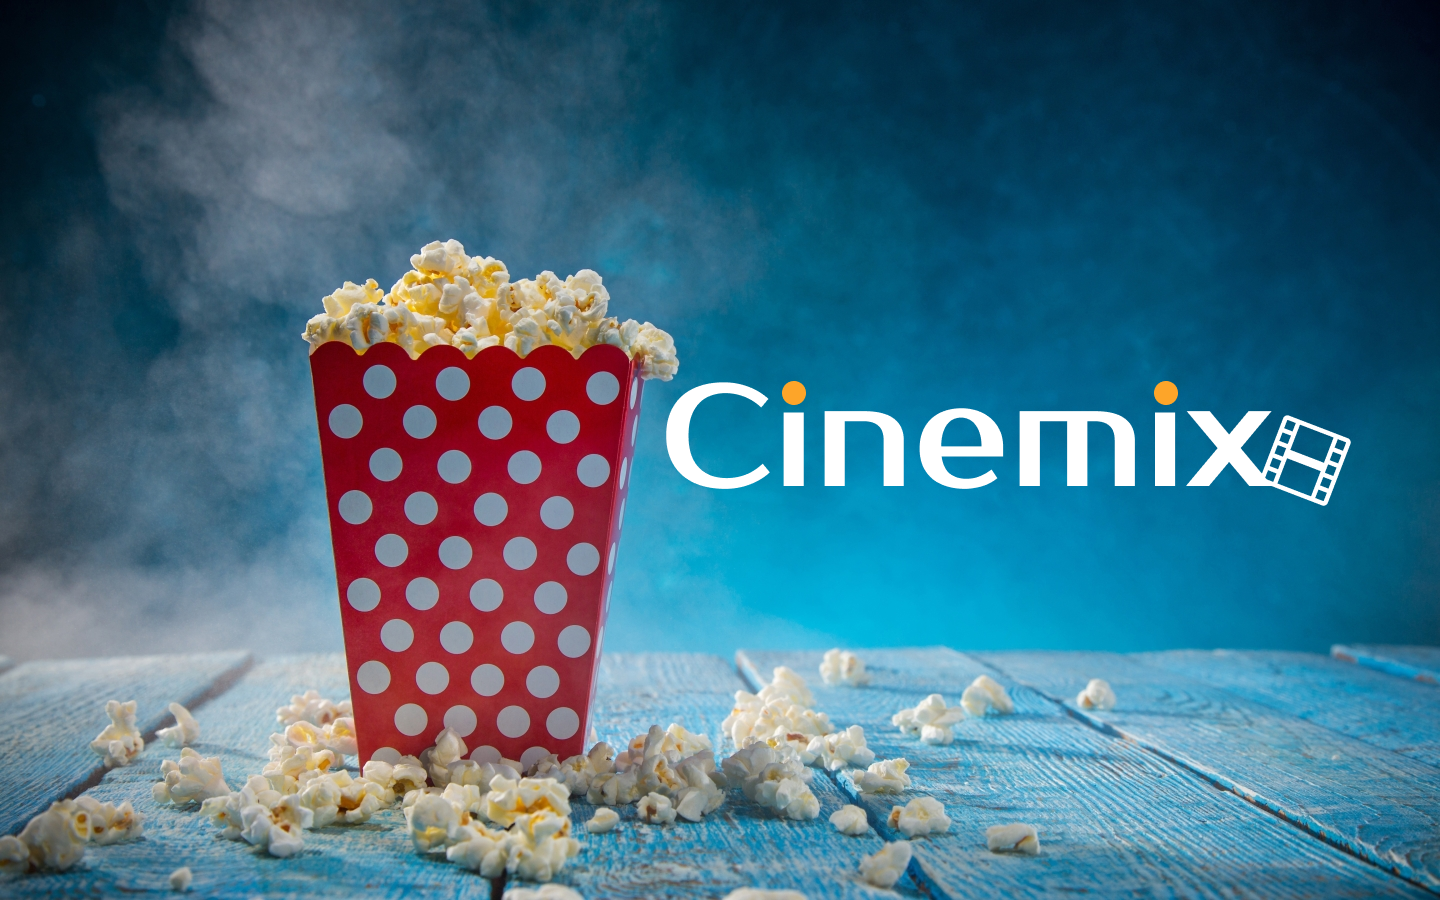
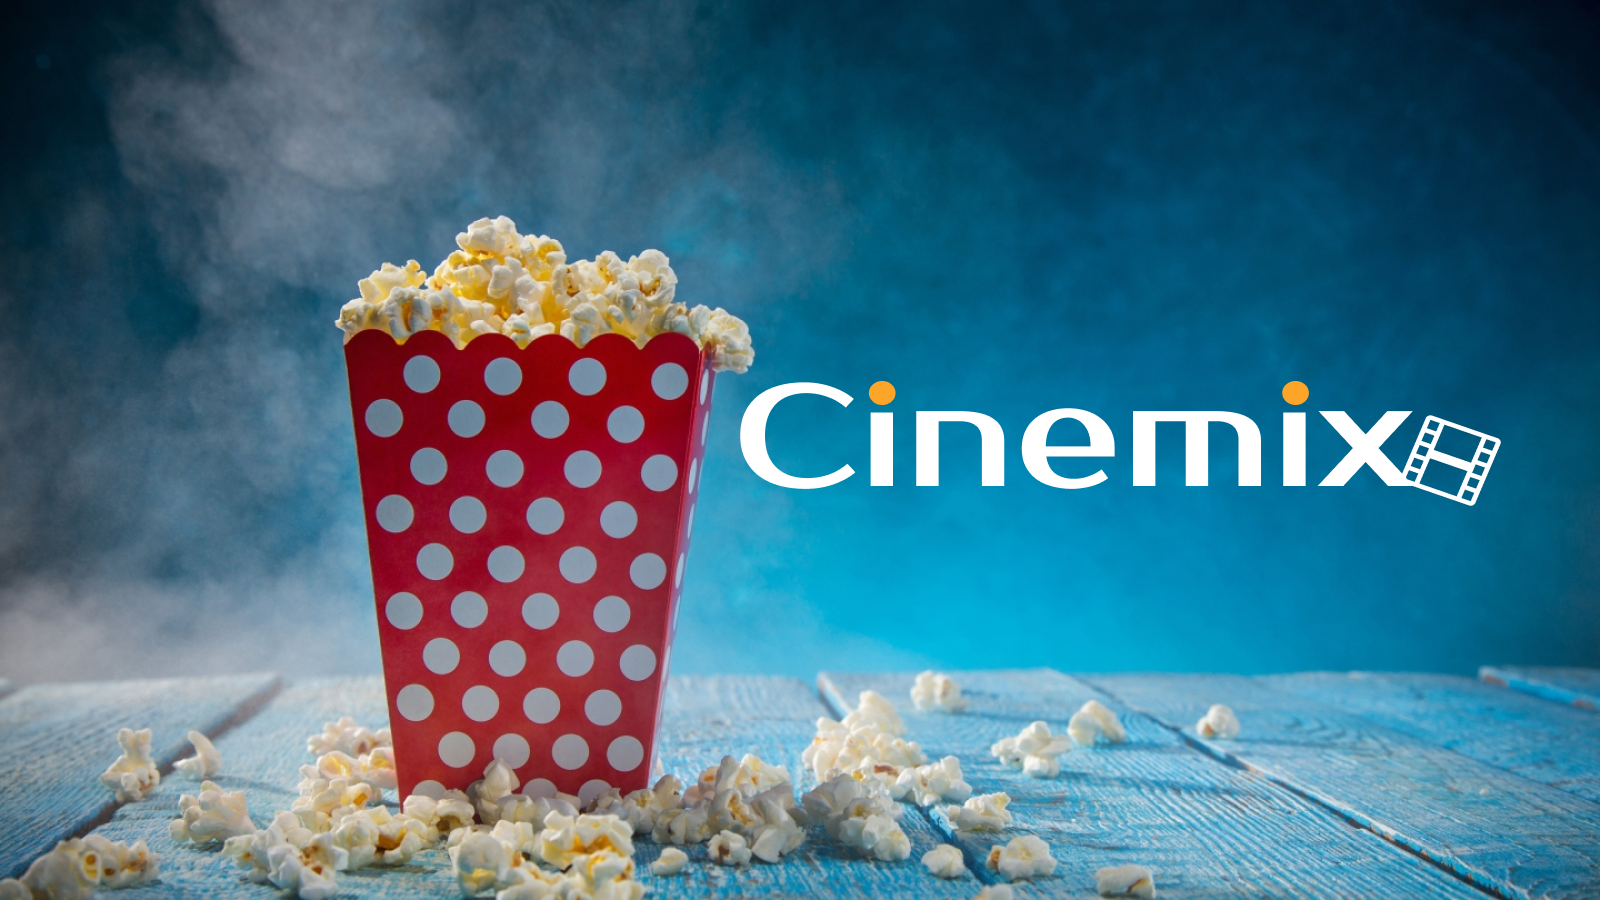
feat: new slide

diff --git a/index.html b/index.html
@@ -27,48 +27,13 @@
         </div>
 
         <!--Banner Slider-->
-        <div class="menu_slide_container">
-            <div class="menu_slide">
-                <div class="slides">
-                    <!--Radio buttons-->
-                    <input type="radio" name="radio-btn" id="radio1">
-                    <input type="radio" name="radio-btn" id="radio2">
-                    <input type="radio" name="radio-btn" id="radio3">
-                    <input type="radio" name="radio-btn" id="radio4">
-                    <!--Fim Radio buttons-->
-
-                    <!--Slide img-->
-                    <div class="slide_img first">
-                        <img src="./img/slide/img1.png" alt="imagem 1">
-                    </div>
-                    <div class="slide_img">
-                        <img src="./img/slide/img2.jpg" alt="imagem 2">
-                    </div>
-                    <div class="slide_img">
-                        <img src="./img/slide/img3.jpeg" alt="imagem 3">
-                    </div>
-
-                    <div class="slide_img">
-                        <img src="./img/slide/img4.jpeg" alt="imagem 4">
-                    </div>
-                    <!--Fim slide img-->
-
-                    <!--Navegation auto-->
-                    <div class="navigation_auto">
-                        <div class="auto_btn1"></div>
-                        <div class="auto_btn2"></div>
-                        <div class="auto_btn3"></div>
-                        <div class="auto_btn4"></div>
-                    </div>
-                </div>
-
-                <div class="manual_navigation">
-                    <label for="radio1" class="manual_btn"></label>
-                    <label for="radio2" class="manual_btn"></label>
-                    <label for="radio3" class="manual_btn"></label>
-                    <label for="radio4" class="manual_btn"></label>
-                </div>
-            </div>
+        <div class="slide_wrapper">
+            <ul class="slide">
+                <li><img src="./img/slide/img1.png" alt="Slide 1"></li>
+                <li><img src="./img/slide/img2.jpg" alt="Slide 2"></li>
+                <li><img src="./img/slide/img3.jpeg" alt="Slide 3"></li>
+                <li><img src="./img/slide/img4.jpeg" alt="Slide 4"></li>
+            </ul>
         </div>
     </header>
 

diff --git a/css/slide/slide.css b/css/slide/slide.css
@@ -1,111 +1,15 @@
-.menu_slide_container {
+.slide_wrapper {
     max-width: 1380px;
-
-    display: flex;
-    align-items: center;
-    justify-content: center;
-}
-
-.menu_slide {
-    margin: 0 auto;
-    width: 100%;
-    height: 90vh;
     overflow: hidden;
-}
-
-.slides {
-    width: 400%;
-    height: 600px;
     display: flex;
 }
 
-.slides input {
-    display: none;
-}
-
-.slide_img {
-    width: 25%;
-    position: relative;
-    transition: 2s;
-}
-
-.slide_img img {
-    width: 100%;
-    height: 100%;
-    object-fit: cover;
-}
-
-.manual_navigation {
-    position: absolute;
-    width: 100%;
-    margin-top: -120px;
+.slide {
     display: flex;
-    justify-content: center;
 }
 
-.manual_btn {
-    border: 2px solid #fff;
-    padding: 8px;
-    border-radius: 10px;
-    cursor: pointer;
-    transition: 0.5s;
-}
-
-.manual_btn:not(:last-child) {
-    margin-right: 18px;
-}
-
-.manual_btn:hover {
-    background-color: var(--hover);
-    border: 2px solid var(--f_color);
-}
-
-#radio1:checked ~ .first {
-    margin-left: 0;
-}
-#radio2:checked ~ .first {
-    margin-left: -25%;
-}
-#radio3:checked ~ .first {
-    margin-left: -50%;
-}
-#radio4:checked ~ .first {
-    margin-left: -75%;
-}
-
-.navigation_auto div {
-    border: 2px solid transparent;
-    padding: 8px;
-    border-radius: 10px;
-    cursor: pointer;
-    transition: 0.5s;
-}
-
-.navigation_auto {
-    position: absolute;
-    width: 100%;
-    margin-top: 480px;
-    display: flex;
-    justify-content: center;
-}
-
-.navigation_auto div:not(:last-child) {
-    margin-right: 18px;
-}
-
-#radio1:checked ~ .navigation_auto .auto_btn1 {
-    background: var(--hover);
-    border: 2px solid var(--f_color);
-}
-#radio2:checked ~ .navigation_auto .auto_btn2 {
-    background: var(--hover);
-    border: 2px solid #000;
-}
-#radio3:checked ~ .navigation_auto .auto_btn3 {
-    background: var(--hover);
-    border: 2px solid #000;
-}
-#radio4:checked ~ .navigation_auto .auto_btn4 {
-    background: var(--hover);
-    border: 2px solid #000;
+.slide li {
+    flex-shrink: 0;
+    width: 80vw;
+    max-width: 800px;
 }

diff --git a/js/slide.js b/js/slide.js
@@ -1,17 +1,33 @@
-export default function slide() {
-    let count = 1;
-    document.getElementById('radio1').checked = true;
+export default class Slide {
+    constructor(slide, wrapper) {
+        this.slide = document.querySelector('.slide');
+        this.wrapper = document.querySelector('.slide_wrapper');
+    }
+    onStart(event) {
+        event.preventDefault();
+        this.wrapper.addEventListener('mousemove', this.onMove);
+    }
 
-    setInterval(() => {
-        nextImage();
-    }, 5000);
+    onMove(event) {}
 
-    function nextImage() {
-        count++;
-        if (count > 4) {
-            count = 1;
-        }
+    onEnd(event) {
+        this.wrapper.removeEventListener('mousemove', this.onMove);
+    }
 
-        document.getElementById(`radio${count}`).checked = true;
+    addSlideEvents() {
+        this.wrapper.addEventListener('mousedown', this.onStart);
+        this.wrapper.addEventListener('mouseup', this.onEnd);
+    }
+
+    bindEvents() {
+        this.onStart = this.onStart.bind(this);
+        this.onMove = this.onMove.bind(this);
+        this.onEnd = this.onEnd.bind(this);
+    }
+
+    init() {
+        this.bindEvents();
+        this.addSlideEvents();
+        return this;
     }
 }

diff --git a/js/script.js b/js/script.js
@@ -1,3 +1,4 @@
-import slide from './slide.js';
+import Slide from './slide.js';
 
-slide();
+const slide = new Slide('.slide', '.slide_wrapper');
+slide.init();
